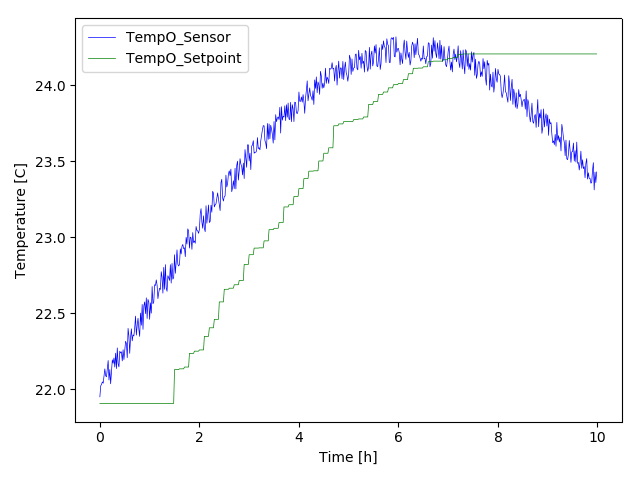
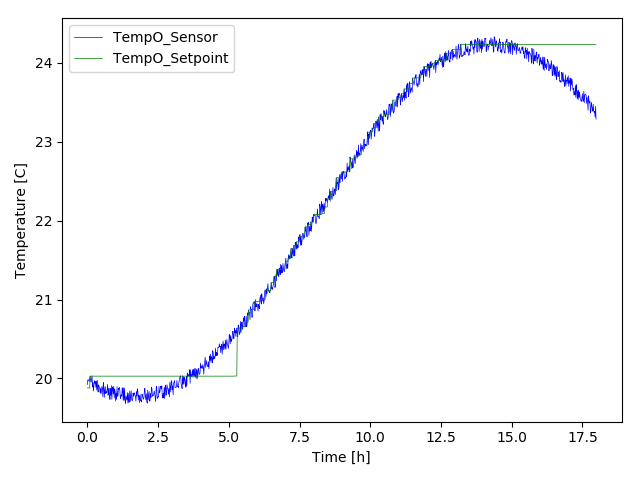
Updated DayMaxEstimator

diff --git a/software/node/program/portable_daymaxestimator.py b/software/node/program/portable_daymaxestimator.py
@@ -22,6 +22,9 @@ SETPOINT_K_MS = __SETPOINT_ABNAHME_MS/math.sqrt(__SETPOINT_ABNAHME_C)
 PERSIST_SETPOINT_TEMPO_C = 'TempO_SetpointWhenSet.fTempO_C'
 PERSIST_SETPOINT_TIMESINCE_MS = 'TempO_SetpointWhenSet.iTimeSince_ms'
 
+iTimePeakDelay_ms = 20*portable_constants.MINUTE_MS
+bDebug = False
+
 class TempO_SetpointWhenSet:
   '''
     Persistenz:
@@ -64,24 +67,27 @@ class TempO_SetpointWhenSet:
 TEMP_LOW_C = -100.00
 
 class TemperatureList:
-  def __init__(self, fTemp_C):
+  def __init__(self):
     self.iDatapoints = int(TIME_INTERVAL_FTEMPO_SETPOINT_MS/TIME_CALC_FTEMPO_SETPOINT_MS)
     self.iLastDatapoint = 0
-    self.listTemp_C = [fTemp_C,]*self.iDatapoints
+    self.listTemp_C = [TEMP_LOW_C,]*self.iDatapoints
     self.iIndexMiddle = int(self.iDatapoints/2)
 
-  def getLowestTemperature(self, iTemp_C=TEMP_LOW_C):
-    """
-      Sonst: Die tiefste Temperatur
-    """
+  def appendLastDatapoint(self, iTemp_C=TEMP_LOW_C):
     self.iLastDatapoint += 1
     if self.iLastDatapoint >= self.iDatapoints:
       self.iLastDatapoint = 0
     self.listTemp_C[self.iLastDatapoint] = iTemp_C
-    # fTempLowest_C = min(self.listTemp_C)
+
+  def getTemperatureMedian(self):
     listTempSorted_C = sorted(self.listTemp_C)
-    fTempLowest_C = listTempSorted_C[self.iIndexMiddle]
-    return fTempLowest_C
+    return listTempSorted_C[self.iIndexMiddle]
+
+  def getTemperatureMax(self):
+    return max(self.listTemp_C)
+
+  def getListAsString(self):
+    return ','.join(map(lambda v: '%0.1f' % v, (self.listTemp_C[self.iLastDatapoint+1:] + self.listTemp_C[:self.iLastDatapoint])))
 
 class DayMaxEstimator:
   """
@@ -102,7 +108,7 @@ class DayMaxEstimator:
   def start(self, iTicks_ms, fTempO_Sensor, objPersist=None):
     # Initial values
     self.objTempO_SetpointWhenSet = TempO_SetpointWhenSet(iTicks_ms=iTicks_ms, fTempO_C=fTempO_Sensor, objPersist=objPersist)
-    self.objTemperatureList = TemperatureList(fTempO_Sensor)
+    self.objTemperatureList = TemperatureList()
     self.iStartTime_ms = iTicks_ms
 
   def process(self, iTicks_ms, fTempO_Sensor, bFetMin_W_Limit_Low):
@@ -123,14 +129,35 @@ class DayMaxEstimator:
     if iTimeDelta_ms > TIME_CALC_FTEMPO_SETPOINT_MS:
       # Alle 6 Minuten wird die Temperatur in objTemperatureList gespeichert und der Setpoint neu berechnet.
       self.iStartTime_ms = portable_ticks.objTicks.ticks_add(self.iStartTime_ms, TIME_CALC_FTEMPO_SETPOINT_MS)
+      if bDebug: print(10*'****')
+      if bDebug: print('**** self.iStartTime_ms:', self.iStartTime_ms, ', bFetMin_W_Limit_Low:', bFetMin_W_Limit_Low)
       if bFetMin_W_Limit_Low:
-         fTempLowest_C = self.objTemperatureList.getLowestTemperature(fTempO_Sensor)
-      else:
-         fTempLowest_C = self.objTemperatureList.getLowestTemperature()
-      fSetpoint_C = self.objTempO_SetpointWhenSet.calculateSetpoint(iTicks_ms)
-      if fTempLowest_C < fSetpoint_C:
-        return fSetpoint_C
-      self.objTempO_SetpointWhenSet.restart(iTicks_ms, fTempLowest_C)
-      return fTempLowest_C
+        # No heating
+        self.objTemperatureList.appendLastDatapoint(fTempO_Sensor)
+        return self.__updateSetpoint(iTicks_ms)
+      # Heating
+      self.objTemperatureList.appendLastDatapoint()
+    if bDebug: print('**** self.objTempO_SetpointWhenSet.calculateSetpoint:', self.objTempO_SetpointWhenSet.calculateSetpoint(iTicks_ms))
     return self.objTempO_SetpointWhenSet.calculateSetpoint(iTicks_ms)
+
+  def __updateSetpoint(self, iTicks_ms):
+    iTimeSinceLastSetpointSet_ms = portable_ticks.objTicks.ticks_diff(iTicks_ms, self.objTempO_SetpointWhenSet.iTicks_ms)
+    if bDebug: print('**** iTimeSinceLastSetpointSet_s:', iTimeSinceLastSetpointSet_ms//1000)
+    assert iTimeSinceLastSetpointSet_ms >= 0
+    if bDebug: print('**** self.objTemperatureList.listTemp_C:', self.objTemperatureList.getListAsString())
+    if iTimeSinceLastSetpointSet_ms < iTimePeakDelay_ms:
+      # Setpoint was set within the last 20min
+      fTempPast_C = self.objTemperatureList.getTemperatureMax()
+      if bDebug: print('**** max:', fTempPast_C)
+    else:
+      # Setpoint has not been set during last 20min
+      fTempPast_C = self.objTemperatureList.getTemperatureMedian()
+      if bDebug: print('**** median:', fTempPast_C)
+    fSetpoint_C = self.objTempO_SetpointWhenSet.calculateSetpoint(iTicks_ms)
+    if bDebug: print('**** fTempPast_C, fSetpoint_C:', fTempPast_C, fSetpoint_C)
+    if fTempPast_C < fSetpoint_C:
+      return fSetpoint_C
+    if bDebug: print('**** self.objTempO_SetpointWhenSet.restart:', fTempPast_C)
+    self.objTempO_SetpointWhenSet.restart(iTicks_ms, fTempPast_C)
+    return fTempPast_C
 

diff --git a/software/simulation_tests/simulation_test_dayestimator.py b/software/simulation_tests/simulation_test_dayestimator.py
@@ -10,7 +10,7 @@ def doit(iTimeEnd_ms, iIncrementTicks_ms, strFilename):
   portable_ticks.reset()
   portable_ticks.init(iMaxTicks_ms=portable_constants.YEAR_MS)
 
-  objTagesmodell = portable_simuliert_tagesmodell.Tagesmodell()
+  objTagesmodell = portable_simuliert_tagesmodell.Tagesmodell(iTimeOffset = -8*portable_constants.HOUR_MS)
   objDayMaxEstimator = portable_daymaxestimator.DayMaxEstimator(portable_ticks.objTicks.ticks_ms())
   fTempO_Sensor = objTagesmodell.get_fTemp_C(iTime_ms=0)
   objDayMaxEstimator.start(portable_ticks.objTicks.ticks_ms(), fTempO_Sensor=fTempO_Sensor)
@@ -36,12 +36,12 @@ def doit(iTimeEnd_ms, iIncrementTicks_ms, strFilename):
 
 def run():
   doit(iTimeEnd_ms=2*portable_constants.WEEK_MS,
-       iIncrementTicks_ms=6*portable_constants.MINUTE_MS,
-       strFilename='simulation_test_dayestimator.png')
+    iIncrementTicks_ms=6*portable_constants.MINUTE_MS,
+    strFilename='simulation_test_dayestimator.png')
 
-  doit(iTimeEnd_ms=10*portable_constants.HOUR_MS,
-       iIncrementTicks_ms=portable_constants.MINUTE_MS,
-       strFilename='simulation_test_dayestimator_short.png')
+  doit(iTimeEnd_ms=18*portable_constants.HOUR_MS,
+    iIncrementTicks_ms=portable_constants.MINUTE_MS,
+    strFilename='simulation_test_dayestimator_short.png')
 
 if __name__ == "__main__":
   run()

diff --git a/software/node/program/portable_simuliert_tagesmodell.py b/software/node/program/portable_simuliert_tagesmodell.py
@@ -6,8 +6,9 @@ import portable_constants
 import config_app
 
 class Tagesmodell:
-  def __init__(self, fRandom=0.1, fTempBase_C=22.0, fFactorDay_C=2.0, fFactorWeek_C=1.0):
+  def __init__(self, iTimeOffset=0, fRandom=0.1, fTempBase_C=22.0, fFactorDay_C=2.0, fFactorWeek_C=1.0):
     random.seed(9001)
+    self.iTimeOffset = iTimeOffset
     self.fRandom = fRandom
     self.fTempBase_C = fTempBase_C
     self.fFactorDay_C = fFactorDay_C
@@ -15,7 +16,7 @@ class Tagesmodell:
 
   def get_fTemp_C(self, iTime_ms):
     assert type(iTime_ms) == type(0)
-    fTime_s = iTime_ms/1000.0
+    fTime_s = (iTime_ms+self.iTimeOffset)/1000.0
     fTemp_C = self.fTempBase_C + math.sin(2.0*math.pi*fTime_s/portable_constants.DAY_S)*self.fFactorDay_C + math.sin(2.0*math.pi*fTime_s/portable_constants.WEEK_S)*self.fFactorWeek_C
     if self.fRandom != None:
       fTemp_C += random.uniform(-self.fRandom, self.fRandom)
